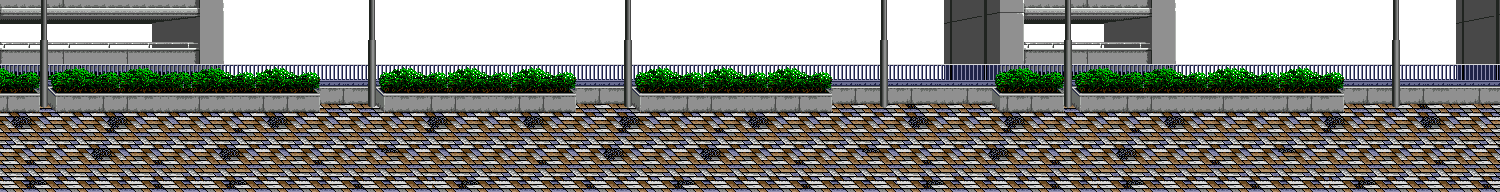
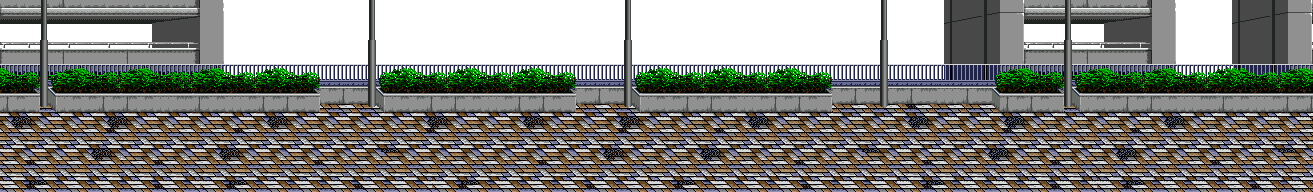
Resizing

diff --git a/scripts/script.js b/scripts/script.js
@@ -3,10 +3,10 @@ var startTime = 0;
 var FONT = "share-regular,'Arial Narrow',sans-serif";
 var CANVAS_WIDTH= 900; // width of canvas
 var CANVAS_HEIGHT= 900; // width of canvas
-var LINE_HEIGHT = 100; // height of a single "line" of incoming gestures
+var LINE_HEIGHT = 25; // height of a single "line" of incoming gestures
 var ENEMY_SCREEN_CROSS_TIME = 1000; // time taken by an enemy crossing the scren
 var PROJECTILE_SCREEN_CROSS_TIME = 1000; //time taken by a projectile crossing the screen
-var V_OFFSET =100;
+var V_OFFSET =0;
 var START_DELAY = 3000+ENEMY_SCREEN_CROSS_TIME; // delay until the game starts var MS_PER_BEAT = 1000; 
 var types= ["rock", "lightning", "fireball"];
 var oldestEnemy = 0; // keeps track of the oldest enemy in enemies
@@ -110,7 +110,6 @@ function changeLives(delta) {
 /////////////////////////////////////////////////
 function Character() {
     this.lane = 1;
-    this.health = 100;
     this.sheet = new createjs.SpriteSheet({
             images: ['./res/character.png'],
             frames: {
@@ -135,13 +134,13 @@ function Character() {
             }
         });
     this.sprite = new createjs.Sprite(this.sheet);
-    this.sprite.x = 100;
-    this.sprite.y = 200;
+    this.sprite.x = 25;
+    this.sprite.y = V_OFFSET + 10 + 2 * LINE_HEIGHT;
     this.looseLife = function () {
         changeLives(-1);
     }
     this.setY = function() {
-        this.sprite.y = V_OFFSET+ LINE_HEIGHT* this.lane;
+        this.sprite.y = V_OFFSET + 10 + LINE_HEIGHT* (this.lane + 1);
     }
     // Add Shape instance to stage display list.
     stage.addChild(this.sprite);
@@ -274,7 +273,7 @@ function Enemy(hitTime, type, lane) {
     this.type= type;
     this.dead = false;
     this.lane = lane;
-    this.enemy.y = V_OFFSET+ 100*lane;
+    this.enemy.y = V_OFFSET + 10 + LINE_HEIGHT * (lane + 1);
     this.enemy.x = CANVAS_WIDTH + 2000;//offscreen hack
     this.remove = function () {
         stage.removeChild(this.enemy);
@@ -355,19 +354,17 @@ function Background() {
     this.draw = function() {
         for (i = 0 ; i < this.sprites.length; i++) {
             this.sprites[i].x -= 2;
-            if (this.sprites[i].x < -3000) this.sprites[i].x += 3000*(this.sprites.length);
+            if (this.sprites[i].x < -1313) this.sprites[i].x += 1313*(this.sprites.length);
         }
         stage.update();
     };
 
     this.resize = function() {
         this.sprites = [];
-        for (i = 0; i < CANVAS_WIDTH + 3000; i+= 3000) {
+        for (i = 0; i < CANVAS_WIDTH + 1313; i+= 1313) {
             this.sprites.push(new createjs.Bitmap(this.file));
             this.sprites[this.sprites.length - 1].x = i;
-            this.sprites[this.sprites.length - 1].y = -30;
-            this.sprites[this.sprites.length - 1].scaleX = 2;
-            this.sprites[this.sprites.length - 1].scaleY = 2;
+            this.sprites[this.sprites.length - 1].y = V_OFFSET;
             stage.addChild(this.sprites[this.sprites.length - 1]);
         }
     };
@@ -382,19 +379,17 @@ function Parallax() {
     this.draw = function() {
         for (i = 0 ; i < this.sprites.length; i++) {
             this.sprites[i].x -= 1;
-            if (this.sprites[i].x < -1024) this.sprites[i].x += 1024*(this.sprites.length);
+            if (this.sprites[i].x < -512) this.sprites[i].x += 512*(this.sprites.length);
         }
         stage.update();
     };
 
     this.resize = function() {
         this.sprites = [];
-        for (i = 0; i < CANVAS_WIDTH + 1024; i+= 1024) {
+        for (i = 0; i < CANVAS_WIDTH + 512; i+= 512) {
             this.sprites.push(new createjs.Bitmap(this.file));
             this.sprites[this.sprites.length - 1].x = i;
-            this.sprites[this.sprites.length - 1].y = 50;
-            this.sprites[this.sprites.length - 1].scaleX = 2;
-            this.sprites[this.sprites.length - 1].scaleY = 2;
+            this.sprites[this.sprites.length - 1].y = V_OFFSET;
             stage.addChild(this.sprites[this.sprites.length - 1]);
         }
     };
@@ -457,13 +452,15 @@ function initGame() {
 function init () {
     var canvas = document.getElementById("canvas");
     stage = new createjs.Stage("canvas");
+    stage.scaleX = 4;
+    stage.scaleY = 4;
     background = new Background();
     parallax = new Parallax();
     function resizeCanvas (){
         canvas.width=window.innerWidth-20;
         canvas.height=window.innerHeight-150;
-        CANVAS_WIDTH=canvas.width;
-        CANVAS_HEIGHT=canvas.height;
+        CANVAS_WIDTH=0.25*canvas.width;
+        CANVAS_HEIGHT=0.25*canvas.height;
         parallax.resize.bind(parallax)();
         background.resize.bind(background)();
     }
